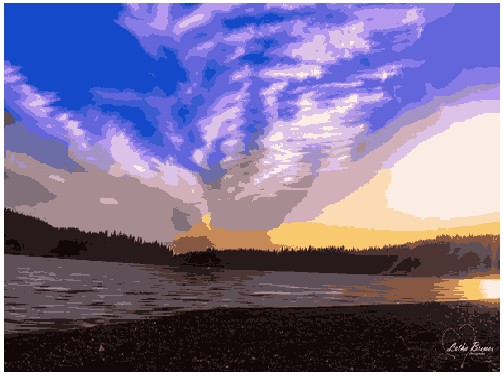
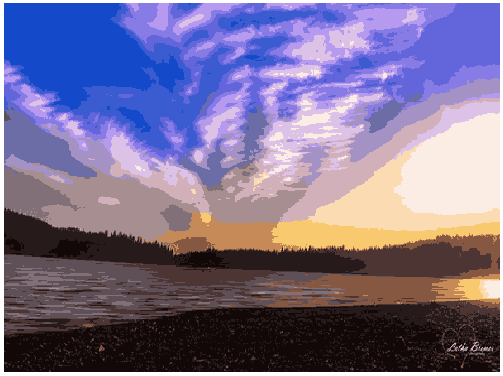
Final

diff --git a/HW6/hw6.2.py b/HW6/hw6.2.py
@@ -11,8 +11,13 @@ import sys
 
 def e_step(pis, mus, x):
     diff = spatial.distance.cdist(x, mus, 'sqeuclidean')
-    w = np.exp(-.5 * diff)
-    w *= pis
+    w = -.5 * diff
+    w += np.log(pis)
+
+    m = np.max(w, axis = 1)
+    m = m[:, np.newaxis]
+    w = np.exp(w - m)
+
     s = np.sum(w, axis = 1)
     s = s[:, np.newaxis]
     w /= s
@@ -66,7 +71,7 @@ def run_em(img, n_clusters, samples, cluster_labels):
     w = np.ones(1)
 
     count = 0
-    while(not np.allclose(w,w_old) and count < 1000):
+    while(not np.allclose(w,w_old) and count < 500):
         print("One Iteration - ", count)
         count += 1
         w_old = np.copy(w)
@@ -76,8 +81,10 @@ def run_em(img, n_clusters, samples, cluster_labels):
     return w, cluster_mus
 
 def run_6_21():
-    n_clusters_list = [10]
-    images = ['RobertMixed03.jpg', 'smallstrelitzia.jpg', 'smallsunset.jpg']
+    # n_clusters_list = [10, 20, 50]
+    # images = ['RobertMixed03.jpg', 'smallstrelitzia.jpg', 'smallsunset.jpg']
+    n_clusters_list = [10, 20, 50]
+    images = ['smallstrelitzia.jpg', 'smallsunset.jpg']
     for image_name in images:
         for n_clusters in n_clusters_list:
             print(image_name + " - " + str(n_clusters))
@@ -91,7 +98,6 @@ def run_6_21():
             mean = np.mean(img, axis = 1)
             mean = mean[:, np.newaxis]
             img -= mean
-            img /= 25.5
             img = img.T
 
             kmeans = KMeans(n_clusters=n_clusters)
@@ -104,7 +110,6 @@ def run_6_21():
                 img[index] = cluster_mus[top]
 
             img = img.T
-            img *= 25.5
             img += mean
             img = revert_shape_image(img, original_shape)
             img = img.astype(np.uint8)
@@ -130,7 +135,6 @@ def run_6_22():
         mean = np.mean(img, axis = 1)
         mean = mean[:, np.newaxis]
         img -= mean
-        img /= 25.5
         img = img.T
 
         kmeans = KMeans(n_clusters=n_clusters, random_state=count + 1)
@@ -145,7 +149,6 @@ def run_6_22():
             img[index] = cluster_mus[top]
 
         img = img.T
-        img *= 25.5
         img += mean
         img = revert_shape_image(img, original_shape)
         img = img.astype(np.uint8)
@@ -164,7 +167,7 @@ def run_6_22():
 
 def main():
     run_6_21()
-    #run_6_22()
+    run_6_22()
 
 if __name__ == '__main__':
     main()
